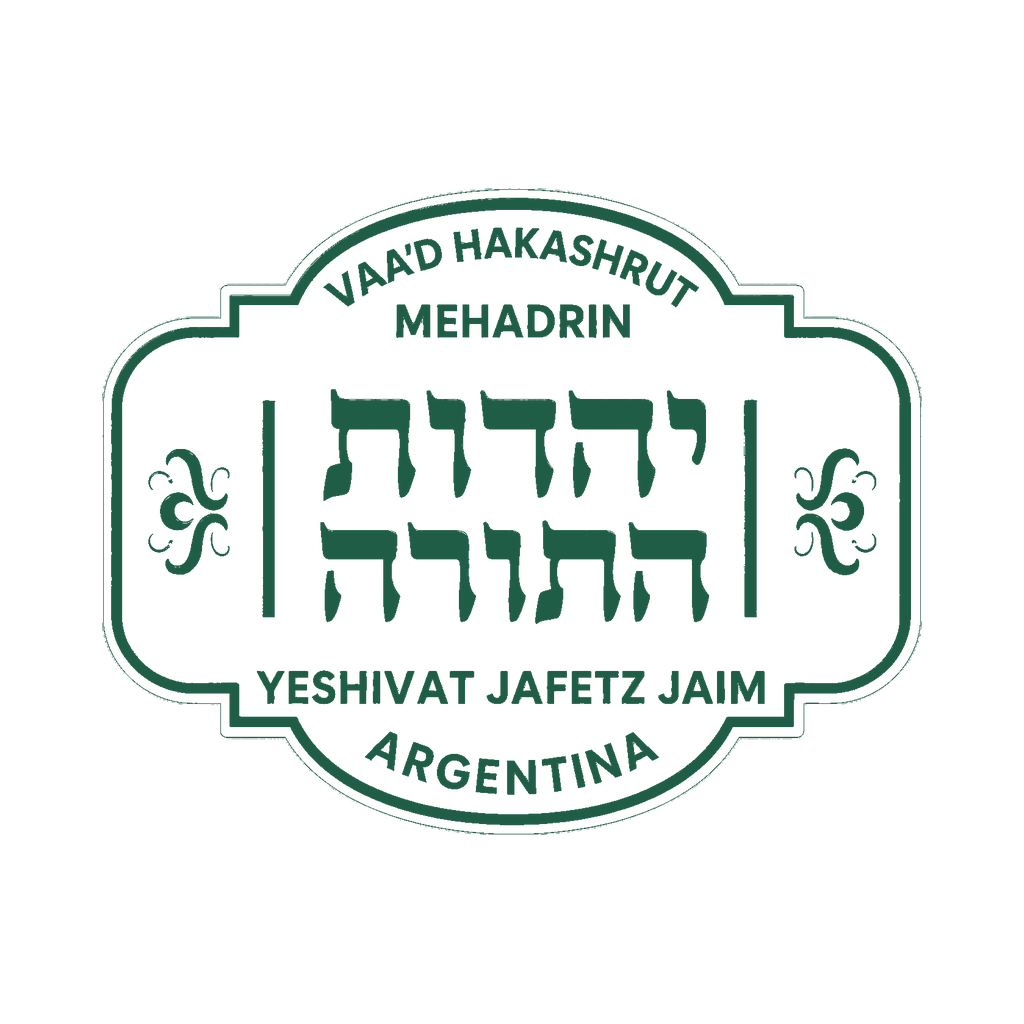
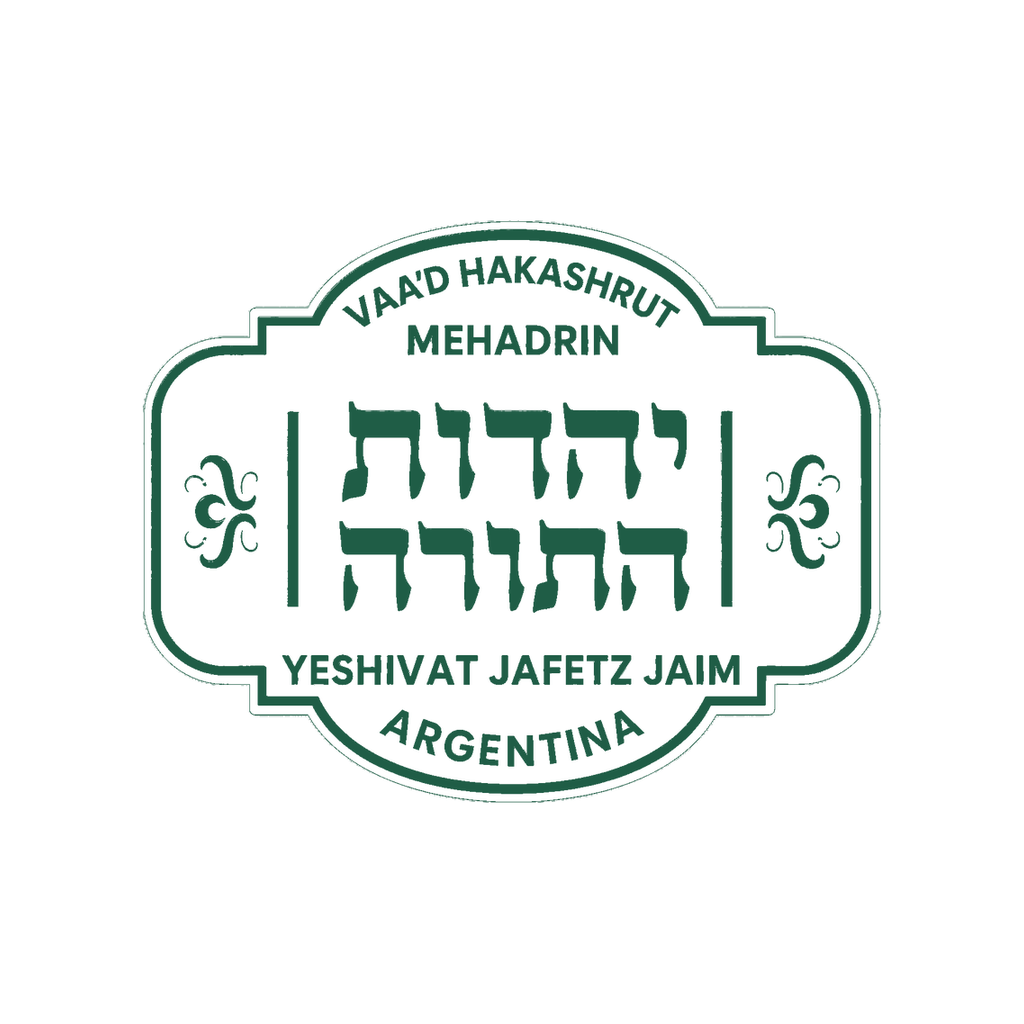
release: preparar navegación e icono refinados 1.0.21

Changed region(s): [[0.0938, 0.1875, 0.9062, 0.8125]]

diff --git a/web/theme.css b/web/theme.css
@@ -4724,12 +4724,11 @@ body,
   background: #fff !important;
 }
 
-/* La superficie blanca de Información útil continúa hasta el borde inferior
-   de Inicio, incluido el espacio seguro reservado para el dock. */
+/* La superficie blanca acompaña el último acceso sin agrandar artificialmente
+   el área desplazable. El valor alcanza el borde superior del dock y deja un
+   cierre corto, en vez de una cola blanca vacía al final de Inicio. */
 #homeView .useful-section::before {
-  bottom: calc(
-    -184px - var(--dock-height) - var(--dock-gap) - 44px - env(safe-area-inset-bottom, 0px)
-  ) !important;
+  bottom: -184px !important;
 }
 
 /* El resize cruzaba el breakpoint de 700px y encogía el encabezado/nav de
@@ -4851,10 +4850,28 @@ body.search-open::after {
   opacity: 0;
 }
 
+/* En Inicio, el cierre detrás y debajo del dock termina en blanco, pero entra
+   con un degradado corto para que el contenido no parezca cortado por una
+   línea horizontal. Es una capa fija: no alarga el área desplazable. */
+body[data-active-view="homeView"]:not(.search-open)::after {
+  height: calc(
+    var(--dock-height) + var(--dock-gap) + 44px + env(safe-area-inset-bottom, 0px)
+  );
+  background: linear-gradient(
+    to bottom,
+    rgb(255 255 255 / 0%) 0%,
+    rgb(255 255 255 / 82%) 30%,
+    #fff 52%,
+    #fff 100%
+  );
+  -webkit-mask-image: none;
+  mask-image: none;
+}
+
 body:not(.search-open) .bottom-nav {
   min-height: var(--dock-height) !important;
   bottom: max(var(--dock-gap), env(safe-area-inset-bottom, 0px)) !important;
-  width: calc(100% - 20px) !important;
+  width: min(calc(100% - 20px), 760px) !important;
   padding: 6px 5px !important;
   background: #174634 !important;
   background-clip: padding-box !important;

diff --git a/scripts/generate-mobile-brand-assets.py b/scripts/generate-mobile-brand-assets.py
@@ -10,6 +10,9 @@ APP_ICON = Image.open(ROOT / "web" / "assets" / "app-icon-master.png").convert("
 WHITE = (255, 255, 255, 255)
 APP_GREEN = (31, 93, 70, 255)
 IOS_ICON = ROOT / "ios" / "App" / "App" / "Assets.xcassets" / "AppIcon.appiconset" / "AppIcon-512@2x.png"
+PLAY_ICON = ROOT / "play-assets" / "icono-app-alta-resolucion-1024.png"
+PLAY_ICON_PREVIEW = ROOT / "play-assets" / "icono-app-blanco-verde-preview-1024.png"
+ICON_ART_SCALE = 0.90
 
 
 def fit(image, width, height):
@@ -39,8 +42,11 @@ def logo_art(transparent=False):
 
 
 def sharpened_app_icon(size):
-    """Resize once from the 1024 px master and retain fine lettering."""
-    icon = APP_ICON.resize((size, size), Image.Resampling.LANCZOS)
+    """Center the master with a restrained white margin and retain lettering."""
+    icon = Image.new("RGBA", (size, size), WHITE)
+    art_size = round(size * ICON_ART_SCALE)
+    art = APP_ICON.resize((art_size, art_size), Image.Resampling.LANCZOS)
+    icon.alpha_composite(art, ((size - art.width) // 2, (size - art.height) // 2))
     if size <= 512:
         icon = icon.filter(ImageFilter.UnsharpMask(radius=max(0.35, size / 640), percent=72, threshold=3))
     return icon
@@ -75,8 +81,9 @@ def launcher(size, round_icon=False):
 def adaptive_foreground(size):
     image = Image.new("RGBA", (size, size), (0, 0, 0, 0))
     # Android's adaptive canvas is 108 dp; the central 66 dp is the guaranteed
-    # safe zone. 64% keeps the complete seal intact under every OEM mask.
-    mark = fit(adaptive_mark(), round(size * 0.64), round(size * 0.64))
+    # safe zone. 58% gives the seal a little more air and keeps it centered
+    # under Samsung and other OEM masks without making the lettering soft.
+    mark = fit(adaptive_mark(), round(size * 0.58), round(size * 0.58))
     image.alpha_composite(mark, ((size - mark.width) // 2, (size - mark.height) // 2))
     return image
 
@@ -115,3 +122,6 @@ for path in RES.glob("drawable*/splash.png"):
 
 IOS_ICON.parent.mkdir(parents=True, exist_ok=True)
 ios_icon().save(IOS_ICON)
+PLAY_ICON.parent.mkdir(parents=True, exist_ok=True)
+ios_icon().save(PLAY_ICON)
+ios_icon().save(PLAY_ICON_PREVIEW)

diff --git a/README.md b/README.md
@@ -58,8 +58,8 @@ La APK de salida queda en `android/app/build/outputs/apk/debug/app-debug.apk`.
 La aplicación ya existe en Google Play. Cada actualización debe conservar exactamente estos datos:
 
 - `applicationId`: `ar.vaad.catalogo.app`
-- Versión actual en el código fuente: `1.0.20`
-- `versionCode` local: `72` (la `1.0.19`/71 está disponible en prueba interna; la cerrada “Prueba personal S22” sigue en 63; aumentar en cada actualización)
+- Versión actual en el código fuente: `1.0.21`
+- `versionCode` local: `73` (la `1.0.20`/72 está disponible en prueba interna; la cerrada “Prueba personal S22” sigue en 63; aumentar en cada actualización)
 - `minSdkVersion`: `26`
 - `targetSdkVersion` y `compileSdkVersion`: `36`
 
